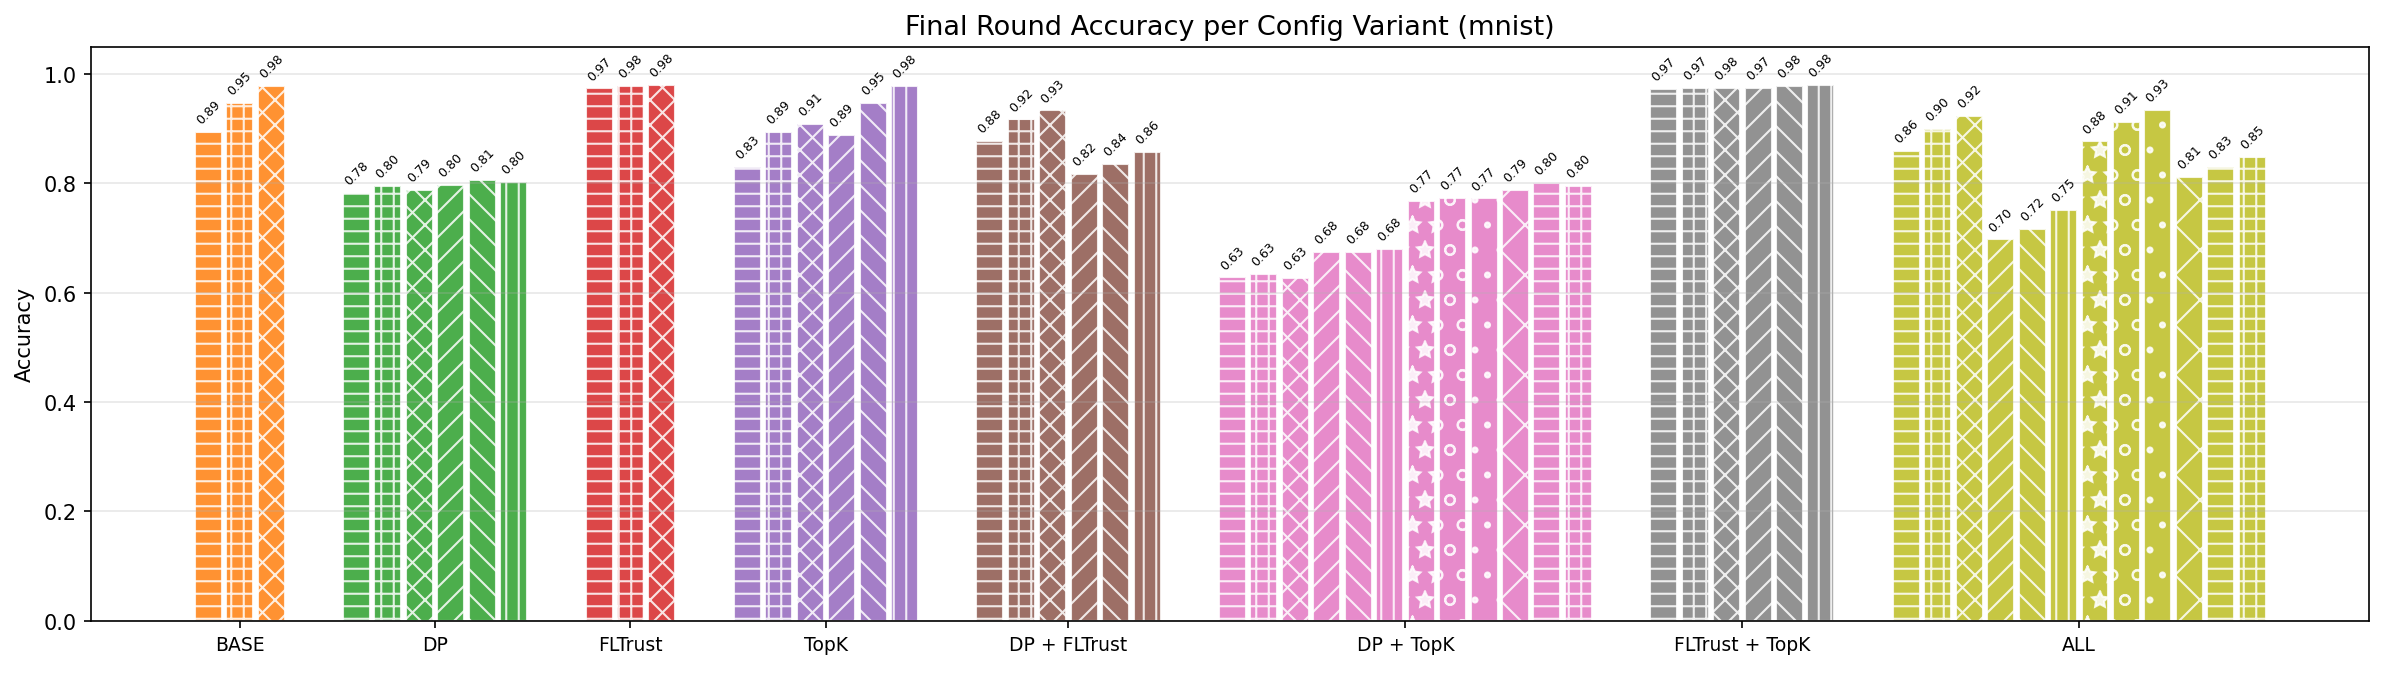
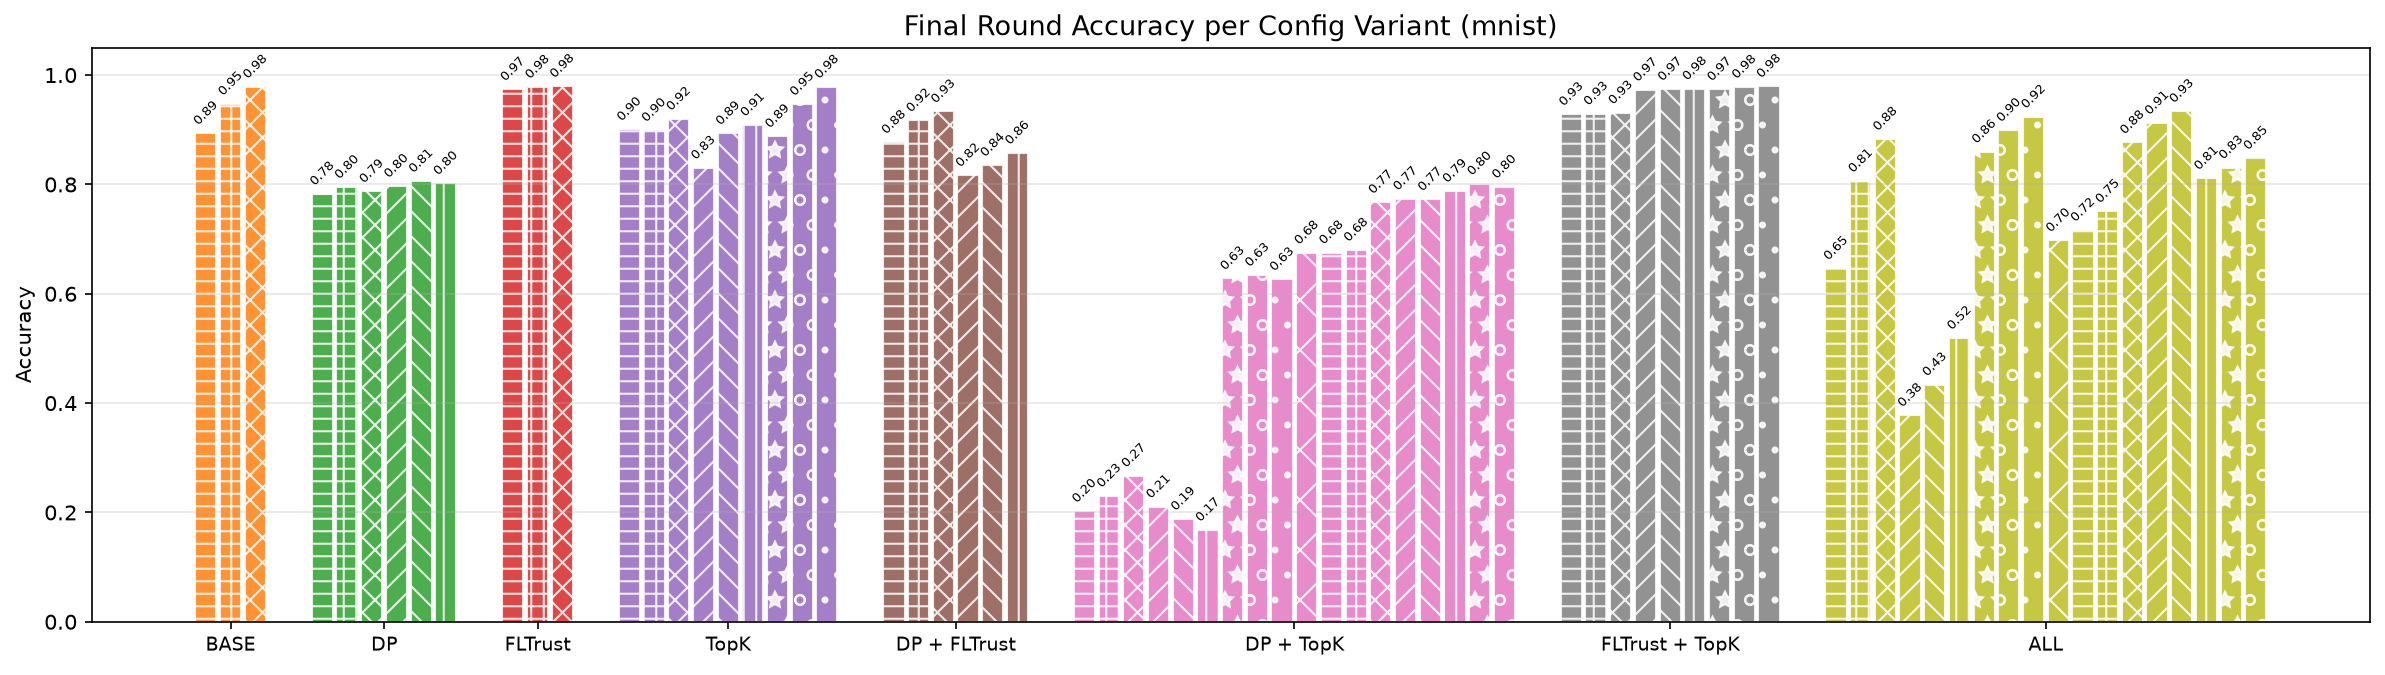
Update report.tex with new sections on Central vs. Local DP and interaction effects, and replace placeholder text

diff --git a/latex/report/report.tex b/latex/report/report.tex
@@ -170,10 +170,15 @@
 	
 	The failure probability $\delta$, introduced by Dwork et al.~\cite{privacy_delta}, denotes the probability that the plain $\varepsilon$-\ac{DP} is broken and should be chosen smaller than the inverse size of the local dataset.
 	
-	\subsubsection{\ac{DP-SGD}}
-	\placeholder{swap local vs global and dpsgd}
+	\paragraph{Central vs.\ Local \ac{DP} in FL.}
 	
-	\ac{DP-SGD} is a modification to the standard \ac{SGD} algorithm introduced by Abadi et al.~\cite{abadi2016deep} in 2016 to integrate \ac{DP} into deep learning frameworks. It enhances \ac{SGD} by clipping the computed gradient to a fixed norm and adding calibrated (Gaussian) noise before performing an update step. The algorithm pseudocode as proposed by Abadi et al. is shown in figure \ref{fig:dpsgdpseudocode}.
+	In central DP, the server adds noise after aggregating the client updates. This setting assumes a trusted aggregator while protecting the aggregated updates before they are shared with third parties.
+	
+	In the considered setting, client updates must be protected against inference attacks by the aggregator or adversaries eavesdropping on the client--server communication, requiring local \ac{DP}. To achieve this, each client adds noise to its update before transmission. Since the noise added by individual clients accumulates during aggregation, local \ac{DP} requires a higher effective noise magnitude and therefore incurs a greater loss in accuracy.
+	
+	\paragraph{\ac{DP-SGD}.}
+	
+	\ac{DP-SGD} is a modification to the standard \ac{SGD} algorithm introduced by Abadi et al.~\cite{abadi2016deep} in 2016 to integrate local \ac{DP} into deep learning frameworks. It enhances \ac{SGD} by clipping the computed gradient to a fixed norm and adding calibrated (Gaussian) noise before performing an update step. The algorithm pseudocode as proposed by Abadi et al. is shown in figure \ref{fig:dpsgdpseudocode}.
 	
 	\begin{figure}
 		\includegraphics[width=\linewidth]{img/DP_SGD_pseudocode}
@@ -181,45 +186,36 @@
 		\label{fig:dpsgdpseudocode}
 	\end{figure}
 	
-	\subsubsection{Central vs.\ Local \ac{DP} in FL}
-	
-	In central DP, the server adds noise after aggregating the client updates. This setting assumes a trusted aggregator while protecting the aggregated updates before they are shared with third parties.
-	
-	In the considered setting, client updates must be protected against inference attacks by the aggregator or adversaries eavesdropping on the client--server communication, requiring local \ac{DP}. To achieve this, each client adds noise to its update before transmission. Since the noise added by individual clients accumulates during aggregation, local \ac{DP} requires a higher effective noise magnitude and therefore incurs a greater loss in accuracy.
 	
 	\subsection{Robustness: Byzantine-Tolerant Aggregation}
 	This section introduces the Byzantine fault model and presents two aggregation schemes designed to mitigate the effects of Byzantine adversaries.
 	
-	\subsubsection{Byzantine Fault Model}
+	\paragraph{Byzantine Fault Model.}
 	Byzantine Fault Tolerance is a property of a distributed system that allows for the system to stay operational while some components fail or act maliciously.
 	
 	A $\eta$-fraction Byzantine adversary means that $\eta$\% of the clients are acting maliciously. In the conducted experiments, malicious behavior means communicating manipulated gradients to poison the central model, e.g. insert a backdoor, degrade the general performance or enable label flipping attacks.
 	
-	\subsubsection{Krum}
+	\paragraph{Krum.}
 	
 	Krum~\cite{Krum}, proposed by Blanchard et al. in 2017, enhances robustness to Byzantine adversaries by selecting updates closest to their XX neighbors, effectively focusing on the densest cluster of updates of size XX. This ensures the training process is provably Byzantine-tolerant but relies on the assumption that honest updates cluster together, which only holds when data distributions across clients are similar. Under data heterogeneity, this assumption breaks down, leading to performance degradation because honest updates may be discarded if they deviate significantly from the majority.
 	
-	\subsubsection{FLTrust}
+	\paragraph{FLTrust.}
 	
 	FLTrust~\cite{cao2021fltrust} was introduced by Cao et al. in 2020 and mitigates malicious updates through trust scores. These are obtained by calculating the cosine similarity of the local update to an update anchor computed on a small root dataset held by the server. The method relies on the assumption that the server has access to a dataset representing the general data distribution across all clients.
 	
 	\subsection{Communication Efficiency}
 	Another practical limitation especially in mobile applications is the available bandwidth to transmit local updates to the aggregator. We therefore include a method to communicate sparse instead of dense updates.
 	
-	\subsubsection{Top-$k$ Gradient Sparsification}
+	\paragraph{Top-$k$ Gradient Sparsification.}
 	
 	Top-$k$ gradient sparsification~\cite{aji2017topk} reduces communication during gradient transmission by retaining only the $k$ largest gradient components, where $k$ is a fixed fraction of the model dimension $d$.
 	
 	Discarding the remaining gradient components inevitably results in information loss, leading to reduced model performance. The extent of this degradation depends on how the optimization information is distributed across the gradient, with models relying on a small number of dominant components generally being less affected than those requiring information from many dimensions.
 	
-	\subsubsection{Relation to Model Dimensionality}
-	
-	The term $d/(\epsilon^2 n)$ in the theoretical lower bound~\cite{allouah2023trilemma} raises the assumption that //TODO
-	
 	\subsection{The Privacy--Robustness--Performance Trilemma}
 	This section first presents the theoretical lower bound of the trilemma and then discusses its implications for empirical evaluation, motivating efficiency as a fundamental third axis.
 		
-	\subsubsection{Theoretical Lower Bound}
+	\paragraph{Theoretical Lower Bound.}
 	
 	Allouah et al.~\cite{allouah2023trilemma} proved that any algorithm simultaneously guaranteeing $\epsilon$-local DP and robustness against an $\eta$-fraction Byzantine adversary incurs a mean estimation error of at least
 	\begin{equation}
@@ -228,14 +224,14 @@
 	\end{equation}
 	This lower bound establishes that the costs of privacy and Byzantine robustness are fundamentally coupled. In particular, the cross-term $\eta/\epsilon^2$ shows that these costs interact multiplicatively rather than additively.
 	
-	\subsubsection{Efficiency Axis Extension}
+	\paragraph{Efficiency Axis Extension.}
 	
 	The same authors proposed the aggregation schemes SMEA and CAF, which match this theoretical lower bound. However, both methods incur a runtime complexity that scales cubically with the model dimension, rendering them impractical for large-scale models. Furthermore, the runtime of SMEA grows exponentially with the number of tolerated Byzantine adversaries, making it infeasible in realistic federated learning settings.
 	
 	The term $\frac{d}{\varepsilon^2 n}$ in Equation~\ref{lowerBoundTheory} further relates the model dimension $d$ to the communication cost and achievable estimation error. Consequently, maintaining accuracy for high-dimensional models requires either relaxing privacy guarantees or integrating a larger number of participating clients.
 	
 	
-	\subsubsection{Empirical Evidence of Compounding}
+	\paragraph{Empirical Evidence of Compounding.}
 	
 	In 2021, Guerraoui et al. empirically investigated the question \textit{"Differential Privacy and Byzantine Resilience in SGD: Do They Add Up?"}~\cite{guerraoui2021differentialprivacybyzantineresilience}. They showed that a naive combination of privacy- and robustness-enhancing methods, namely \ac{DP-SGD} and Minimum-Diameter Averaging (MDA)~\cite{elmhamdi2020genuinelydistributedbyzantinemachine}, leads to unfavorable scaling with the model dimensionality and super-additive performance degradation. These findings support the theoretical results of Allouah et al. and reinforce the need to treat efficiency as a fundamental third axis in future experimental studies.
 
@@ -315,6 +311,7 @@
 	
 	\subsection{Mechanism Interaction Effects}
 	\label{sec:interaction}
+	In this section we outline the expected compounding effects.
 	
 	\paragraph{Performance.}
 	We hypothesize that the clipping and calibrated noise introduced by \ac{DP-SGD} impair the assignment of meaningful trust scores during FLTrust aggregation, thereby slowing convergence and reducing the final model accuracy beyond the individual cost of \ac{DP-SGD}. Furthermore, \ac{DP}-perturbed updates are expected to be more sensitive to Top-$k$ sparsification, as the added noise may increase the magnitude of gradient components that would otherwise be discarded. Consequently, combining multiple mechanisms is expected to incur a super-additive loss in accuracy.
@@ -369,7 +366,6 @@
 
 	
 	\subsection{Parameters}
-\placeholder{review}
 
 	\paragraph{Static.} The following parameters are constant across all experiment runs.
 
@@ -377,7 +373,7 @@
 		\item The client learning rate is fixed at 0.01.
 		\item The number of gradient descend steps taken by each client per round is set to 10, due to the results of analyzing the effect on the model accuracy and evolution of the trust scores described in section~\ref{batches_per_round_trustscores}.
 		\item The initial seed for random processes is fixed to 42 to ensure comparability across runs. Randomizers required to vary between rounds, like training set shuffle or DP noise generation, additionally take the round number as input.
-		\item The attack type is fixed to flip specific labels: Digits 3 and 7 on the MNIST dataset and TODO: CIFAR10
+		\item The attack type is fixed to flip the labels of digits 3 and 7 on the MNIST dataset.
 		\item \ac{DP} failure probability $\delta$ is fixed to 1e-5.
 		\item The root dataset size for FLTrust is fixed to 2000 samples. This is very large compared to the size of 100 samples proposed by the authors.
 	\end{itemize}
@@ -431,7 +427,6 @@
 	This chapter analyzes the cost and effects of the isolated mechanisms compared to the baseline.
 
 	\subsubsection{\ac{DP-SGD} Cost}
-	\placeholder{review}
 	
 	\paragraph{Training time.}
 	The replacement of pure \ac{SGD} with \ac{DP-SGD} on the clients results in an increase in training time. This effect is stronger for stricter privacy budgets as depicted in Figure~\ref{fig:duration_by_client_number}.
@@ -440,21 +435,25 @@
 	Regarding the model performance, all conducted experiments report an accuracy loss of $\approx 0.2$ compared to the baseline (see Figures~\ref{fig:bars_acc_exp1} and \ref{fig:bars_accexp2}).
 	Contrary to our expectations, the assigned privacy budget does not have a major influence on the accuracy besides the general degradation observed when applying \ac{DP-SGD}: We achieve similar performance for all $\varepsilon \in [1;5;10;25]$. Figure~\ref{fig:DP_acc} shows a slight variation in the early rounds but overall a similar evolution for all values of $\varepsilon$.
 	
-	
-	
 	\subsubsection{FLTrust}
-	\placeholder{review, ggf charts on training time??}
 
 	\paragraph{Effect.}
 	Enabling FLTrust improves model accuracy and mitigates the effects of the label-flipping attack, as shown in Figures~\ref{fig:confusion_matrix_base} and~\ref{fig:confusion_matrix_fltrust}. In the baseline model, the targeted digits 3 and 7 are consistently misclassified as each other, whereas enabling FLTrust largely restores correct predictions. The improvement becomes more pronounced with increasing Byzantine fractions and attack scales. The results shown were obtained with a Byzantine fraction of $\eta = 40\%$ and an attack scale of 2.0.
 	
 	\paragraph{Cost.}
-	\placeholder{extend once results are available}
+	The replacement of FedAvg aggregation with FLTrust did not yield a noticeable impact on the wall clock training time.
 
-	\subsubsection{Top-$k$ Sparsification Cost}
-	\placeholder{Accuracy, bytes per round, and wall-clock time for $k \in \{1\%,10\%\}$. REVIEW}
+	\subsubsection{Top-$k$ Sparsification}
+
 	\paragraph{Effect.}
 	Applying Top-k sparsification yields the expected savings in bandwidth, modeled here by measuring the bytes transferred per client per round. The results are visualized in Figure~\ref{fig:bytes_per_round}, confirming a reduction of $100-2k\%$. The factor of two comes from the necessity to transfer also the indices of the transferred bytes, rendering all $k\ge50$ impractical for saving bandwidth.
+	
+	\begin{figure}[h]
+		\centering
+		\includegraphics[width=\linewidth]{img/bytes_per_client.png}
+		\caption{Bytes transferred per client per round for settings with different Top-k sparsification thresholds.}
+		\label{fig:bytes_per_round}
+	\end{figure}
 	
 	\paragraph{Cost.}
 	We do not observe a significant decline in performance when applying Top-k sparsification to the MNIST training process. Cutting down to transferring only the top 1\% of the gradient yields a slight loss in accuracy, but not a noticeable effect.
@@ -463,20 +462,11 @@
 	
 	\subsection{Combination: Pairwise and Full Interactions (RQ2)}
 	
-	\placeholder{%
-		Main results table: 8 configurations $\times$ all metrics;
-		additive vs.\ super-additive cost analysis;
-		focus on \ac{DP}+FLTrust interaction;
-		radar / simplex visualization (Figure~\placeholder{X}).%
-	}
-	
 	This section reports the combinatory effects observed when pairing multiple mechanisms.
-	
+	The full results are available in table TODO
 	\subsubsection{\ac{DP} + Robustness}
-	\placeholder{check when results}
 	
 	\paragraph{Cost.}
-	\placeholder{review}
 	Combining \ac{DP-SGD} with FLTrust results in a substantial decline in model accuracy when training full epochs per round, reducing performance to only slightly above random guessing. Figure~\ref{fig:confusion_DP+FLTRUST} shows the confusion matrix of the final model, revealing that it predicts only two classes.
 	
 	These results are consistent with the super-additive interaction between privacy and Byzantine robustness derived by Allouah et al. Intuitively, the noise introduced for differential privacy causes client updates to deviate from the anchor update computed on the root dataset, resulting in uniformly low trust scores. This behavior is reflected in the second chart of Figure~\ref{fig:trustscores_over_rounds}.
@@ -490,29 +480,20 @@
 
 	
 	\subsubsection{\ac{DP} + Compression}
-	\placeholder{review when results available}
 	
-	Applying Top-$k$ sparsification to updates perturbed by \ac{DP} noise significantly affects model performance, an effect that is not observed in the Top-$k$-only configuration. While $k=50\%$ does not introduce additional degradation beyond that caused by \ac{DP-SGD} alone, smaller values of $k$ substantially reduce the final model accuracy, with $k=1\%$ reaching a peak accuracy of only 0.2.
+	Applying Top-$k$ sparsification to updates perturbed by \ac{DP} noise significantly affects model performance, an effect that is not observed in the Top-$k$-only configuration. While $k=50\%$ does not introduce additional degradation beyond that caused by \ac{DP-SGD} alone, smaller values of $k$ substantially reduce the final model accuracy, with $k=1\%$ reaching a peak accuracy of only 0.2 when training full epochs and 0.27 when reducing that to 10 SGD steps per round.
 	
 	As in the \ac{DP}-only configuration, varying the privacy budget $\varepsilon$ has no noticeable impact on model accuracy.
 	
 	\subsubsection{Robustness + Compression}
-	\placeholder{review with results.}
 	
 	Combining FLTrust with Top-$k$ sparsification largely preserves the individual effects of both methods. Transmitting only 1\% of the gradient results in the same slight reduction in accuracy observed in the Top-$k$-only configuration, while FLTrust provides a comparable improvement in robustness to that achieved with dense updates. Figure~\ref{fig:trustscores_over_rounds} shows that the trust scores exhibit a similar evolution to the dense-update setting.
 	
 	\subsubsection{Full Combination (\ac{DP} + Robustness + Compression)}
-	\placeholder{Worst-case configuration; super-additive compounding quantified.}
 	
-	Combining all three methods reduces model performance to a level comparable to the \ac{DP}+FLTrust configuration. The final accuracy ranges between 0.12 and 0.18, only marginally exceeding random guessing. The resulting confusion matrix is likewise similar to that of the \ac{DP}+FLTrust setting.
+	For full local-epoch training, combining all three methods reduces model performance to a level comparable to that of the \ac{DP}+FLTrust configuration. The final accuracy ranges between 0.12 and 0.18, only marginally exceeding random guessing, and the resulting confusion matrix closely resembles that of the \ac{DP}+FLTrust setting.
 	
-	
-	\subsection{MNIST vs.\ CIFAR-10 Comparison}
-	
-	\placeholder{%
-		How results scale with dataset complexity;
-		does the compounding pattern hold across both?%
-	}
+	Reducing the local training to 10 steps per communication round, however, produces markedly different results. The performance degradation previously observed for Top-1\% sparsification in the \ac{DP}+Top-$k$ configuration no longer occurs when FLTrust is added. Furthermore, the trend of stronger privacy guarantees yielding higher accuracy persists across all evaluated values of $k$. For a configuration with 60 clients, an accuracy of 88\% is achieved with a privacy budget of $\varepsilon = 1$ while transmitting only 1\% of the locally computed gradient components to the server.
 	
 	\subsection{Trust and Privacy: FlTrust scores (RQ3)}
 	This section reports the findings related to the trust scores computed during the FLTrust aggregation.
@@ -547,26 +528,32 @@
 	\end{table*}
 	
 	% --------------------------------------------------
-	\section{Discussion}
-	\label{sec:discussion}
-	% --------------------------------------------------
-	
-	\subsection{Interpretation of Compounding Effects}
-	
-	\placeholder{%
-		Relate empirical findings to the theoretical cross-term $\eta/\epsilon^2$;
-		characterize compounding as additive / sub-additive / super-additive per
-		configuration pair; intuition for why DP clipping and FLTrust cosine clipping
-		interact destructively.%
-	}
+\section{Discussion}
+\label{sec:discussion}
+% --------------------------------------------------
 
-	\subsection{Practical Recommendations}
+	In this section, we compare the experimental results with the hypotheses formulated in Section~\ref{sec:interaction}.
 	
-	\placeholder{%
-		When to prioritize which axis;
-		safe operating region in the trilemma space;
-		guidance on $(\epsilon,k)$ parameter selection given a robustness requirement.%
-	}
+	\paragraph{Influence of the Optimization Schedule on the Interaction of Differential Privacy and FLTrust.}
+	Contrary to our hypothesis, the combination of \ac{DP-SGD} and FLTrust did not generally result in a super-additive decline in performance, but only showed the expected degradation when training in full epochs. For this initial setting, we observed the expected behavior: The trust scores of both honest and malicious clients collapse during the early stages of training, preventing further convergence and limiting the model accuracy to little more than random guessing.
+	
+	One possible explanation is that, during full local epochs, the client models drift apart, causing the updates to naturally become more dissimilar. The addition of privacy-preserving noise further amplifies this drift, resulting in the collapse of the trust scores. With fewer local optimization steps, client drift remains limited, preserving a higher degree of similarity between honest client updates and the FLTrust anchor update. Consequently, the additional perturbation introduced by differential privacy is no longer sufficient to destroy the trust-score assignment.
+	
+	These findings suggest that the optimization schedule constitutes an important moderating factor in the interaction between differential privacy and Byzantine robustness. While the theoretical lower bound remains valid, the practical severity of the interaction appears to depend strongly on the amount of local optimization performed between communication rounds.
+	
+	\paragraph{Interaction of \ac{DP} and FLTrust.}
+	Enabling FLTrust led to an inversion of the expected decline in performance for stronger privacy guarantees. We did not find a solid explanation for this phenomenon during our experiments and suggest that future work investigate this behavior further. This observation indicates that the interaction between differential privacy and Byzantine robustness may be more complex than suggested by the theoretical lower bound alone.
+	
+	\paragraph{Interaction of Sparsification and \ac{DP}.}
+	As expected, applying aggressive sparsification to gradients perturbed by privacy-preserving noise degrades performance super-additively because the transmitted dimensions are no longer necessarily those carrying the most useful information, but may instead include components whose magnitudes were increased by the added noise.
+	
+	\paragraph{Interaction of FLTrust and Top-$k$ Sparsification.}
+	Sparsifying the gradients prior to transmission did not have a noticeable impact on either the final model accuracy or the trust scores computed during aggregation. A possible explanation is that cosine similarity is largely insensitive to changes in vector magnitude. Since Top-$k$ sparsification preserves the dominant gradient components, the direction of the client updates remains sufficiently similar for FLTrust to assign meaningful trust scores.
+	
+	\paragraph{Evolution of Trust Scores.}
+	The temporal behavior of the trust scores of honest and malicious clients has received little attention in the literature. One possible explanation for the observed dynamics is that, during the early stages of training, the model learns the general structure of the data, resulting in relatively similar client updates. Once the model has captured these global patterns, the honest updates increasingly reflect the characteristics of the individual local datasets and gradually drift apart, causing their trust scores to decrease. At the same time, the influence of the label-flipping attack becomes increasingly dominant in the malicious updates, leading to a collapse of their trust scores.
+
+
 	
 	% --------------------------------------------------
 	\section{Limitations and Future Work}
@@ -574,40 +561,42 @@
 	% --------------------------------------------------
 	
 	\subsection{Limitations}
+	The experiments were conducted under several simplifying assumptions to ensure a manageable experimental setup while establishing a baseline for future research.
 	
-	\placeholder{%
-		Single attack type (label-flipping); single aggregation rule (FLTrust);
-		membership inference approximation (shadow model only);
-		limited $\epsilon$ grid; MNIST/CIFAR-10 may not represent medical/financial FL.%
-	}
-	
-	The experiments in this project were conducted under several simplifications to provide a lightweight anchor for future research. 
 	\paragraph{Simple models and datasets.}
-	The datasets and models selected offer good comparability with existing work but may not fully represent the data analyzed in practical \ac{FL} applications (e.g., financial or medical domains) or complex architectures (e.g., transformer-like models). 
+	The selected datasets and models facilitate comparison with existing work but may not adequately represent the data characteristics and model architectures encountered in practical \ac{FL} applications, such as medical, financial, or transformer-based systems.
 	
-	\paragraph{Limited method coverage.} We evaluated only a single method and at most one attack type per axis. The baseline for membership inference attack success rate was approximated using a shadow model, and the privacy budget was constrained to a limited $\varepsilon$-grid to balance computational feasibility with analytical rigor. 
-	
-	\paragraph{Privacy budget schedule.} The privacy budget was spent uniformly over time, but recent research by Kiani et al.~\cite{kiani2025differentiallyprivatefederatedlearning} suggests that a time-adaptive approach yields better privacy-utility-tradeoffs.
+	\paragraph{Limited method coverage.}
+	Only a single mechanism and, where applicable, a single attack type were evaluated for each axis of the trilemma. Furthermore, the baseline for the membership inference attack success rate was approximated using a shadow model, and the evaluated privacy budgets were limited to a small $\varepsilon$-grid to balance computational feasibility with analytical rigor.
 	
 	\paragraph{FLTrust root dataset size.}
-	The very large size of the root dataset compared to the size proposed in the original paper poses the risk of overstating the reliability of the FLTrust defense mechanism. The experiments should therefore be extended to verify the effect on smaller root datasets.
+	The comparatively large root dataset may overestimate the effectiveness of the FLTrust defense mechanism. The experiments should therefore be extended to investigate the influence of smaller root datasets, as proposed in the original work.
 	
-	\paragraph{Stateless Clients.} The clients do not preserve a state over multiple rounds. In combination with top-k sparsification, this hinders small but repeated updates to accumulate to meaningful contributions over time. Introducing a client state requires well-behaved clients to correctly maintain the state and stay synchronized with the central model, which is realistic for distributed training but not a reasonable assumption in federated learning. Another option is to share the state with the central server, defeating the purpose of the sparsification and introducing new privacy vulnerabilities.
+	\paragraph{Stateless clients.}
+	The clients do not preserve state across communication rounds. In combination with Top-$k$ sparsification, this prevents small but consistent gradient updates from accumulating over time.
+	
+	Introducing client-side state would require honest clients to remain synchronized with the global model. While this assumption is realistic for distributed training, it is difficult to justify in federated learning. Alternatively, maintaining the state on the server would reduce the benefits of sparsification and introduce additional privacy concerns.
+	
+	\paragraph{Privacy budget schedule.}
+	The privacy budget was allocated uniformly across training rounds. However, recent work by Kiani et al.~\cite{kiani2025differentiallyprivatefederatedlearning} suggests that a time-adaptive allocation yields improved privacy--utility trade-offs.
 	
 	\subsection{Future Work}
 	
-	\placeholder{%
-		Extend to Krum, SMEA, CAF aggregators;
-		stronger attacks (model poisoning~\cite{fang2020poisoning});
-		LoRA+DP reparametrization~\cite{liu2025dplora} for the efficiency axis;
-		theoretical tightness of joint calibration heuristic.%
-	}
+	In this section, we derive directions for future research from the open findings and limitations of this work.
 	
-	Future work should aim to expand the detailed analysis to CIFAR-10 and more complex datasets.
+	\paragraph{Investigate the Interaction of \ac{DP} and FLTrust.}
+	Future work should investigate the interaction between \ac{DP} and FLTrust in greater detail, particularly the observed inversion of the influence of the privacy budget on model performance, to determine whether this behavior can be reproduced and quantified in more complex experimental settings. Additionally, the evolution of the trust scores should be analyzed more closely to better understand the mechanisms underlying the observed behavior.
 	
-	Furthermore the experimental setup should be extended to encompass a broader range of methods (e.g., Krum, SMEA, CAF for aggregation) and evaluate stronger adversarial scenarios, such as model poisoning attacks described by Fang et al.\cite{fang2020poisoning}. Additionally, exploring reparametrization techniques such as the Low-Rank-adaptation method proposed by Liu et al.\cite{liu2025dplora} could provide insights into balancing efficiency and privacy in \ac{FL} systems. 
+	\paragraph{Trust Scores as a Regularization Mechanism.}
+	The gradual decay of the trust scores once the global model has been established suggests that they may capture increasing specialization of the local client models. Future work could therefore investigate whether these trust scores can be exploited as a regularization mechanism to reduce overfitting to individual client datasets.
 	
-	Other promising directions include testing alternative threat models (e.g., malicious servers, collusion between malicious clients and servers), or introducing data heterogeneity through artificially skewed dataset distributions. These extensions would better reflect real-world complexities and enable more robust comparisons across methodologies.
+	\paragraph{Broader Experimental Setup.}
+	Future work should extend the detailed analysis to CIFAR-10 and more challenging datasets that better reflect practical federated learning applications.
+	
+	Furthermore, the experimental setup should be expanded to encompass a broader range of aggregation methods, such as Krum, SMEA, and CAF, as well as stronger adversarial scenarios, including the model poisoning attacks proposed by Fang et al.~\cite{fang2020poisoning}. Exploring reparameterization techniques such as the Low-Rank Adaptation method proposed by Liu et al.~\cite{liu2025dplora} could further improve the understanding of the trade-offs between efficiency and privacy.
+	
+	Finally, future work should investigate alternative threat models, including malicious servers and collusion between malicious clients and the server, as well as non-\ac{IID} data distributions through artificially skewed client datasets. Together, these extensions would provide a more comprehensive understanding of the privacy--robustness--performance trilemma and help determine whether the interactions observed in this work generalize to more realistic federated learning settings.
+	
 	
 	% --------------------------------------------------
 	\section{Conclusion}
@@ -631,12 +620,6 @@
 	\onecolumn
 	\section{APPENDIX}
 	\FloatBarrier
-	\begin{figure}[h]
-		\centering
-		\includegraphics[width=0.7\linewidth]{img/bytes_per_client.png}
-		\caption{Bytes transferred per client per round for settings with different Top-k sparsification thresholds.}
-		\label{fig:bytes_per_round}
-	\end{figure}
 	\subsection{Experimental run on MNIST dataset with 50 rounds of full epochs trained, $n=50, \eta=40\%$, attack scale = 2.0}
 	\FloatBarrier
 	
@@ -705,7 +688,7 @@
 	
 	\begin{figure}
 		\includegraphics[width=\linewidth]{img/MNIST_07-12/duration_per_config.png}
-		\caption{The full training duration for varying numbers of clients.}
+		\caption{The average training duration per round for varying numbers of clients.}
 		\label{fig:duration_by_client_number}
 	\end{figure}
 \end{document}